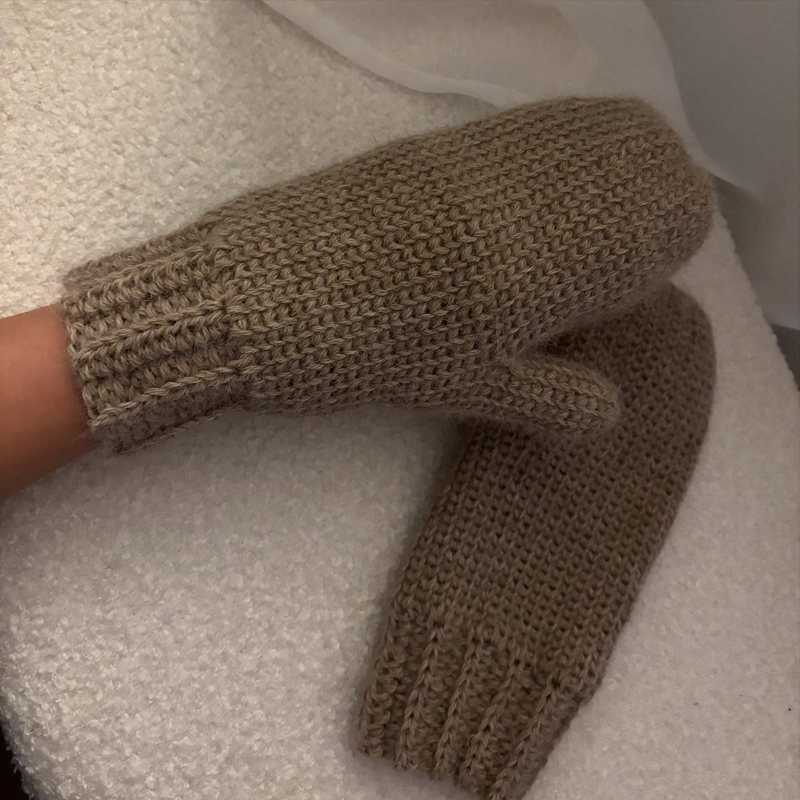
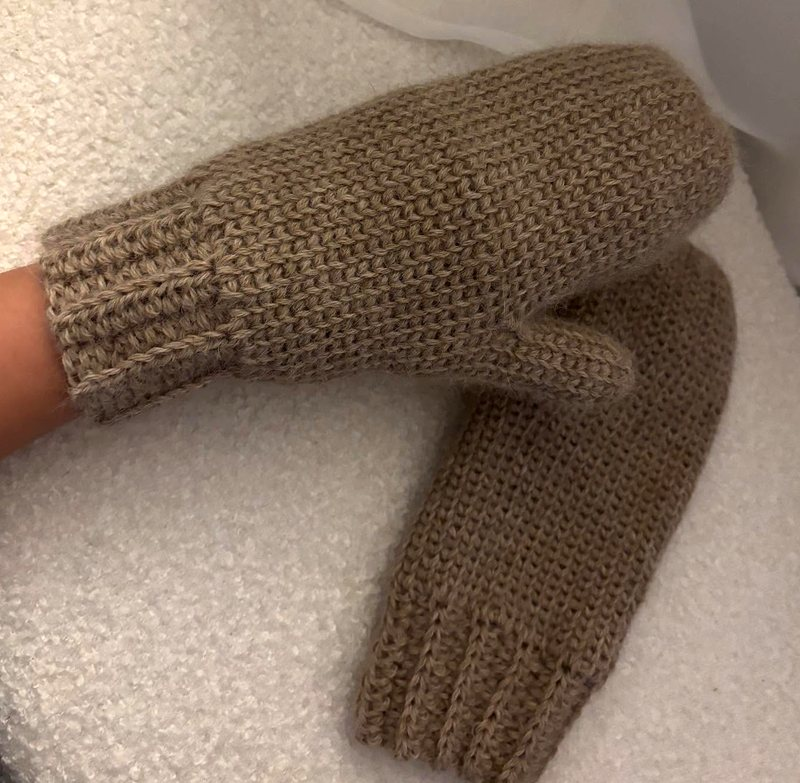
y

diff --git a/style.css b/style.css
@@ -8,7 +8,7 @@
   --ink:#2B1B1F;
   --muted:#7A6A60;
 
-  --display:"Fraunces",Georgia,serif;
+  --display:"Shrikhand",Georgia,serif;
   --body:"Instrument Sans",system-ui,-apple-system,sans-serif;
 
   --pad:clamp(1.25rem,3.5vw,3.5rem);
@@ -31,13 +31,19 @@ body{
 }
 img{display:block;max-width:100%;height:auto}
 a{color:inherit;text-decoration:none}
-h1,h2,h3{font-family:var(--display);font-weight:900;font-style:italic;font-variation-settings:"SOFT" 100,"opsz" 144;line-height:1;letter-spacing:-.01em}
+h1,h2,h3{font-family:var(--display);font-weight:400;line-height:1.05;letter-spacing:.01em}
 h2{font-size:clamp(2rem,4.2vw,3.2rem);color:var(--wine)}
 :focus-visible{outline:3px solid var(--wine);outline-offset:4px;border-radius:4px}
 
 /* nitka na pozadí — tenká linka proplétající se stránkou, dokresluje se při scrollu (kreslí ji script.js) */
 .thread{position:absolute;inset:0;width:100%;height:100%;pointer-events:none;z-index:0;overflow:visible}
 .thread path{fill:none;stroke:var(--wine);stroke-width:2.2;stroke-linecap:round;opacity:.36;stroke-dasharray:1;stroke-dashoffset:1}
+/* mašlička na konci nitky */
+/* mašle se postupně "zavazuje" – kreslení řídí script.js podle posledního úseku nitky */
+#thread-bow{opacity:.45}
+#thread-bow path{fill:none;stroke:var(--wine);stroke-width:2.2;stroke-linecap:round;stroke-dasharray:1;stroke-dashoffset:1;opacity:1}
+#thread-bow circle{fill:var(--wine);opacity:0}
+
 /* háčky: pořád dokola dělají smyčku „zapíchnout – zachytit – protáhnout“ */
 .hooks path{fill:none;stroke:var(--wine);stroke-width:2.8;stroke-linecap:round;stroke-linejoin:round}
 .hooks circle{fill:var(--wine)}
@@ -84,7 +90,7 @@ main,.nav,.foot{position:relative;z-index:1}
 .stitch .ball path{fill:none;stroke:var(--cream);stroke-width:1.6;stroke-linecap:round;opacity:.55}
 .hooks path{stroke-width:3}
 .hooks .tip{stroke-width:1.7}
-.stitch-thread{fill:none;stroke:var(--wine);stroke-width:2.2;stroke-linecap:butt}
+.stitch-thread{fill:none;stroke:var(--wine);stroke-width:2.05;stroke-linecap:butt}
 .hero-claim{max-width:56ch;font-size:clamp(1.05rem,1.5vw,1.25rem);color:var(--muted);margin-bottom:1.75rem;min-height:2.4em}
 .hero-claim .line{display:block;overflow:hidden}
 .hero-claim .line>span{display:block}
@@ -108,7 +114,7 @@ main,.nav,.foot{position:relative;z-index:1}
 .btn:hover{background:var(--wine-deep)}
 .btn--magnet{transition:translate .35s var(--ease),background .2s;will-change:translate}
 .btn--magnet>span{display:inline-block;transition:translate .35s var(--ease)}
-.btn--big{font-family:var(--display);font-style:italic;font-weight:900;font-variation-settings:"SOFT" 100;font-size:clamp(1.3rem,2.6vw,1.9rem);padding:1rem 2.3rem}
+.btn--big{font-family:var(--display);font-weight:400;font-size:clamp(1.3rem,2.6vw,1.9rem);padding:1rem 2.3rem}
 
 /* layout */
 section{padding:clamp(2.5rem,5vw,4.5rem) var(--pad);max-width:var(--max);margin:0 auto;scroll-margin-top:4.5rem}
@@ -157,8 +163,8 @@ section{padding:clamp(2.5rem,5vw,4.5rem) var(--pad);max-width:var(--max);margin:
 .postup h2{margin-bottom:clamp(1.2rem,2.5vw,1.8rem)}
 .kroky{list-style:none;display:grid;grid-template-columns:repeat(3,1fr);gap:var(--gap)}
 .kroky li{background:var(--oat);border-radius:var(--r);padding:1.6rem 1.4rem 1.8rem}
-.krok-n{font-family:var(--display);font-style:italic;font-weight:900;font-variation-settings:"SOFT" 100;font-size:2.6rem;color:var(--wine);line-height:1;display:block;margin-bottom:.6rem}
-.kroky h3{font-size:1.2rem;color:var(--ink);margin-bottom:.5rem;font-variation-settings:"SOFT" 100,"opsz" 48}
+.krok-n{font-family:var(--display);font-weight:400;font-size:2.6rem;color:var(--wine);line-height:1;display:block;margin-bottom:.6rem}
+.kroky h3{font-size:1.15rem;color:var(--ink);margin-bottom:.5rem}
 .kroky p{color:var(--muted);font-size:.95rem}
 @media (max-width:720px){.kroky{grid-template-columns:1fr}}
 
@@ -175,7 +181,7 @@ section{padding:clamp(2.5rem,5vw,4.5rem) var(--pad);max-width:var(--max);margin:
 .about-img{border-radius:var(--r);overflow:hidden;background:var(--oat)}
 .about-text p{color:var(--muted);margin:1rem 0 1.6rem;max-width:56ch}
 .stats{list-style:none;display:grid;grid-template-columns:repeat(4,auto);gap:1rem 1.6rem;justify-content:start}
-.stats b{display:block;font-family:var(--display);font-style:italic;font-weight:900;font-variation-settings:"SOFT" 100;font-size:clamp(1.6rem,3vw,2.3rem);color:var(--wine);line-height:1}
+.stats b{display:block;font-family:var(--display);font-weight:400;font-size:clamp(1.6rem,3vw,2.3rem);color:var(--wine);line-height:1}
 .stats span{font-size:.85rem;color:var(--muted)}
 @media (max-width:720px){.about{grid-template-columns:1fr}.stats{grid-template-columns:repeat(2,auto)}}
 

diff --git a/script.js b/script.js
@@ -94,13 +94,15 @@ function thread() {
     const amp = w * 0.46, cx = w / 2;
     let d = `M ${sx + 1.2} ${sy}`, px = sx; // +1.2: zakulacený konec nepřekrývá nitku ze scény (jinak tmavší tečka)
     for (let i = 1; i <= bends; i++) {
-      const y = sy + seg * i, py = y - seg / 2, x = cx + (i % 2 ? 1 : -1) * amp;
+      const y = sy + seg * i, py = y - seg / 2;
+      const x = i === bends ? cx : cx + (i % 2 ? 1 : -1) * amp; // poslední úsek končí uprostřed nad ceníkem
       // první úsek: z háčků odejít vodorovně doprava, teprve pak klesat (ať nitka nekříží text v hero)
       d += i === 1 ? ` C ${px + amp * 0.9} ${sy}, ${x} ${py}, ${x} ${y}` : ` C ${px} ${py}, ${x} ${py}, ${x} ${y}`;
       px = x;
     }
     path.setAttribute('d', d);
     path.dataset.sy = sy; path.dataset.ey = ey;
+    document.getElementById('thread-bow')?.setAttribute('transform', `translate(${cx} ${ey + 3})`);
     draw();
   };
   // konec nitky "jede" se scrollem: dotahuje se do ~3/4 obrazovky a na konci trasy se zastaví.
@@ -113,15 +115,32 @@ function thread() {
     for (let i = 0; i < 22; i++) { const mid = (lo + hi) / 2; (path.getPointAtLength(mid).y < targetY ? (lo = mid) : (hi = mid)); }
     return lo;
   };
-  const draw = () => {
-    if (reduced) { path.style.strokeDashoffset = 0; return; }
-    cancelAnimationFrame(raf);
-    raf = requestAnimationFrame(() => {
-      const L = path.getTotalLength(); if (!L) return;
-      const at = lengthAtY(L, scrollY + innerHeight * 0.75);
-      path.style.strokeDashoffset = 1 - at / L;
-    });
+  // nitka startuje u klubíčka a za cílem "dojíždí" pomalu (lerp) – při prvním scrollu se tak
+  // pomaličku natáhne do základní polohy a dál plyne za scrollem
+  let cur = 0, started = false, running = false;
+  const tick = () => {
+    const L = path.getTotalLength();
+    if (!L) { running = false; return; }
+    const target = started ? lengthAtY(L, scrollY + innerHeight * 0.75) : 0;
+    cur += (target - cur) * 0.04;
+    if (Math.abs(target - cur) < 0.5) cur = target;
+    path.style.strokeDashoffset = 1 - cur / L;
+    tieBow(L);
+    if (cur !== target) requestAnimationFrame(tick); else running = false;
   };
+  const bowEls = { loops: document.querySelector('#thread-bow .bow-loops'), tails: document.querySelector('#thread-bow .bow-tails'), knot: document.querySelector('#thread-bow circle') };
+  const tieBow = (L) => {
+    if (!bowEls.loops) return;
+    const p = Math.max(0, Math.min(1, (cur - (L - 260)) / 260)); // zavazuje se během posledních ~260 px nitky
+    bowEls.loops.style.strokeDashoffset = 1 - Math.min(1, p / 0.65);            // nejdřív očka
+    bowEls.tails.style.strokeDashoffset = 1 - Math.max(0, (p - 0.65) / 0.35);   // pak konce
+    bowEls.knot.style.opacity = Math.max(0, (p - 0.85) / 0.15);                 // nakonec uzlík
+  };
+  const draw = () => {
+    if (reduced) { path.style.strokeDashoffset = 0; cur = path.getTotalLength(); tieBow(cur); return; }
+    if (!running) { running = true; requestAnimationFrame(tick); }
+  };
+  addEventListener('scroll', () => { started = true; }, { passive: true, once: true });
   addEventListener('scroll', draw, { passive: true });
   addEventListener('resize', layout);
   addEventListener('load', layout);

diff --git a/index.html b/index.html
@@ -11,7 +11,7 @@
 <link rel="icon" href="img/favicon.svg" type="image/svg+xml">
 <link rel="preconnect" href="https://fonts.googleapis.com">
 <link rel="preconnect" href="https://fonts.gstatic.com" crossorigin>
-<link href="https://fonts.googleapis.com/css2?family=Fraunces:ital,opsz,wght,SOFT@1,9..144,900,100&family=Instrument+Sans:ital,wght@0,400;0,500;0,600;1,400&display=swap" rel="stylesheet">
+<link href="https://fonts.googleapis.com/css2?family=Shrikhand&family=Instrument+Sans:ital,wght@0,400;0,500;0,600;1,400&display=swap" rel="stylesheet">
 <link rel="stylesheet" href="style.css">
 <link rel="preload" as="fetch" href="content/site.json" crossorigin>
 </head>
@@ -19,6 +19,12 @@
 
 <svg class="thread" aria-hidden="true">
   <path id="thread-path" pathLength="1"/>
+  <!-- mašlička na konci nitky – ukáže se, když nitka dojede na konec trasy -->
+  <g id="thread-bow">
+    <path class="bow-loops" d="M0 1 C -16 -10, -26 6, -1 6 M0 1 C 16 -10, 26 6, 1 6" pathLength="1"/>
+    <path class="bow-tails" d="M-1 4 C -5 12, -9 17, -13 23 M1 4 C 5 12, 9 17, 11 23" pathLength="1"/>
+    <circle cx="0" cy="3" r="2.6"/>
+  </g>
 </svg>
 
 <header class="nav">
@@ -40,7 +46,7 @@
         <circle cx="26" cy="30" r="16"/>
         <path d="M13 24 q13 -8 26 0 M11 33 q15 -12 31 -2 M15 41 q12 -12 26 -5"/>
       </g>
-      <path class="stitch-thread" d="M41 27 C 56 22, 74 34, 98 30" pathLength="1"/>
+      <path class="stitch-thread" d="M41 27 C 56 22, 70 34, 82 32 C 90 30.6, 94 30, 98 30" pathLength="1"/>
       <circle id="stitch-anchor" cx="98" cy="30" r="1" fill="none"/>
     </svg>
     <p class="hero-claim" id="hero-claim"></p>

diff --git a/README.md b/README.md
@@ -30,6 +30,13 @@ zobrazují se v původním poměru stran.
 ## Fotky z Instagramu
 `img/ig/` (ignorováno gitem) = originály stažené z IG, `img/w/` = zmenšené verze použité na webu (čtverce 800 px, tašky 1000 px, hero 2000 px).
 
-## Deploy (Cloudflare Pages)
+## Deploy
+
+### GitHub Pages (zapnuté)
+V repu je workflow `.github/workflows/pages.yml` – každý push do `main` web automaticky nasadí.
+Jednorázově zapni: GitHub → repo **NaOku** → **Settings → Pages → Source: GitHub Actions**.
+Web pak běží na `https://tomasdvoji.github.io/NaOku/` (funguje i v podadresáři – všechny cesty jsou relativní).
+
+### Cloudflare Pages (alternativa)
 Workers & Pages → Create → Pages → Connect to Git → tohle repo.
 Build command: *(prázdné)*, Build output directory: `/`. Hotovo.
